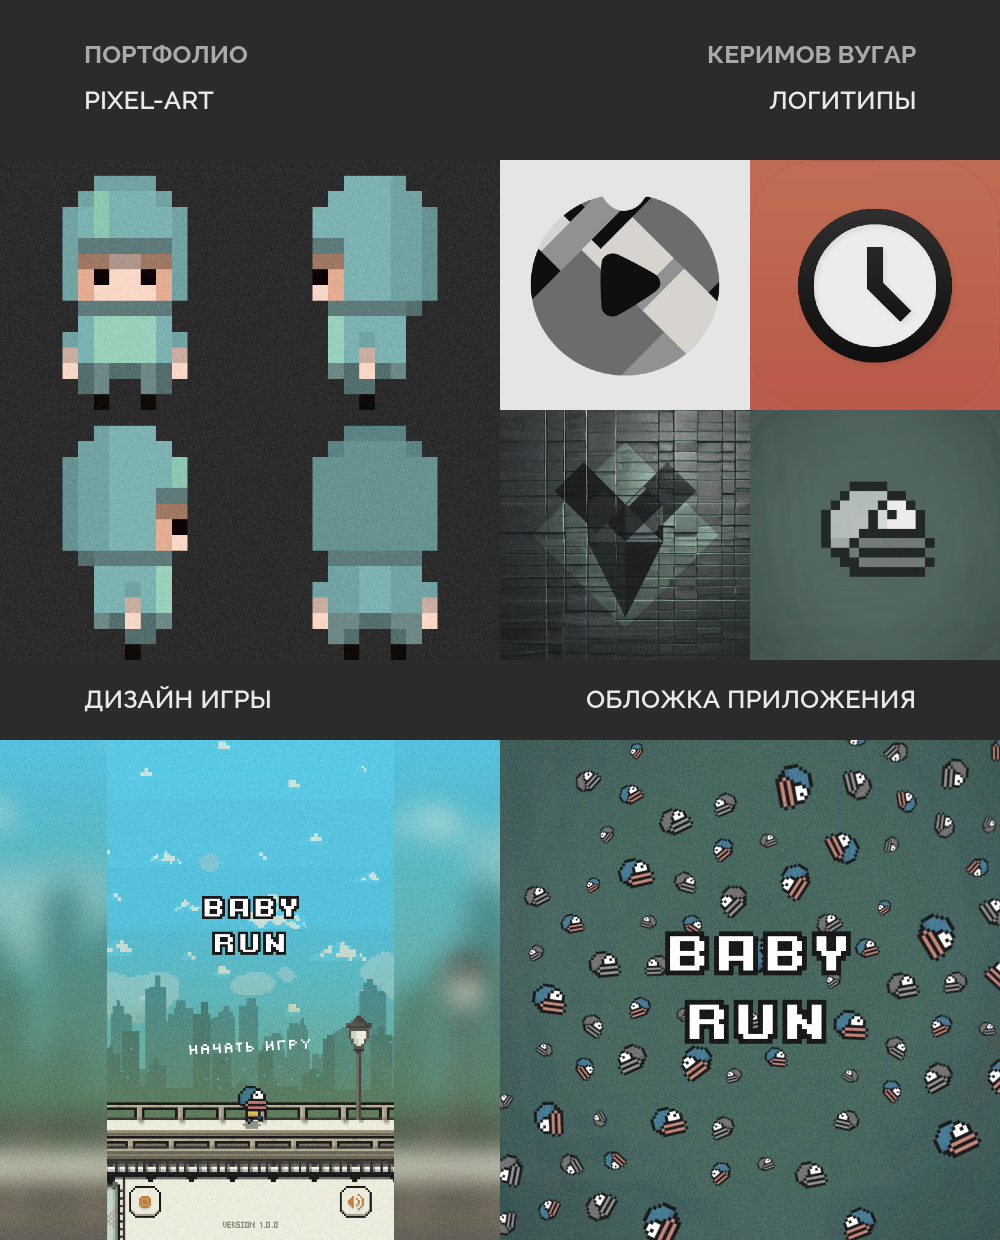
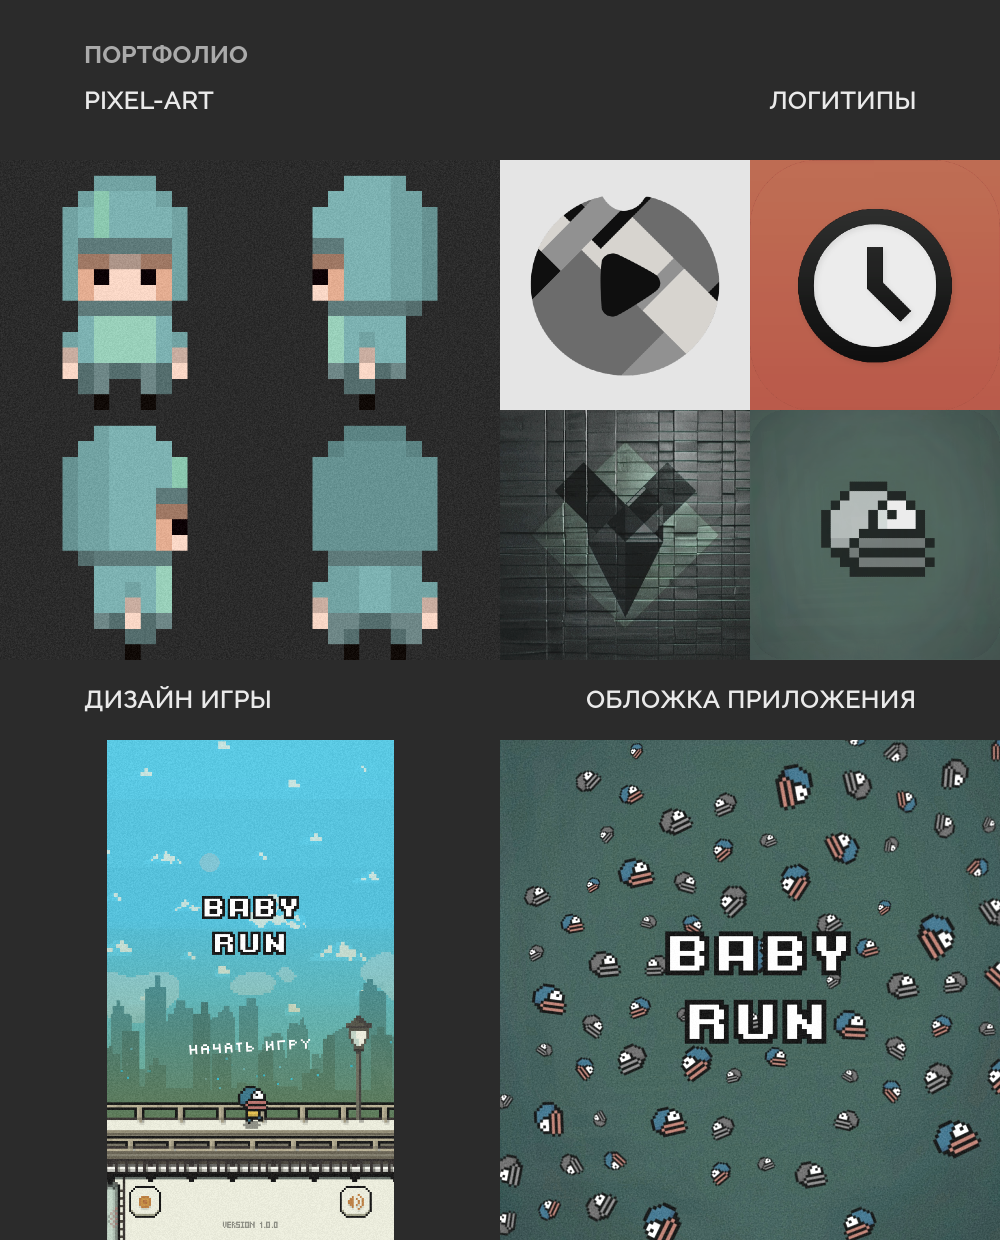
update picture

Changed region(s): [[0.372, 0.5823, 0.527, 1.0], [0.0, 0.5823, 0.124, 1.0], [0.713, 0.0306, 0.93, 0.0613]]

diff --git a/README.md b/README.md
@@ -1,5 +1,5 @@
 ## Дизайн / Портфолио
 
 <div align="center" width="100%">
-<!--    <img width="60%" src="/images/portfolio.png"/> -->
+    <img width="60%" src="/images/portfolio.png"/>
 </div>
